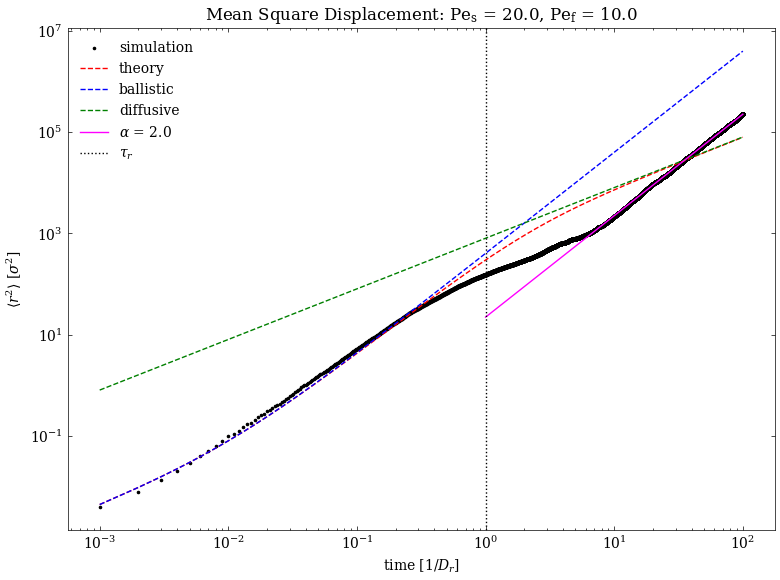
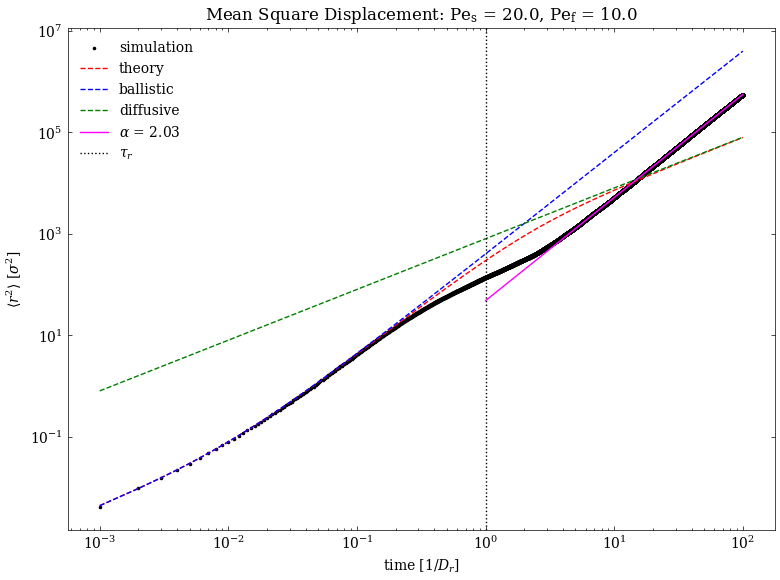
new msdx figures and sync with workstation

diff --git a/abp.py b/abp.py
@@ -553,7 +553,7 @@ if __name__ == "__main__":
     parser.add_argument('-Pf', type=float, default=5, help='Flow Peclet number')
     parser.add_argument('-D', type=float, default=1, help='Dimensionless ratio of diffusion constants')
     parser.add_argument('-x', type=float, default=50, help='Distance along x-axis to check for first-passage')
-    parser.add_argument('-G', type=float, default=0, help='Geometrical factor related to particle aspect ratio')
+    parser.add_argument('-G', type=float, default=1, help='Geometrical factor related to particle aspect ratio')
     parser.add_argument('--init', action='store_true', help='View the initial configuration of the system')
     args = parser.parse_args()
 